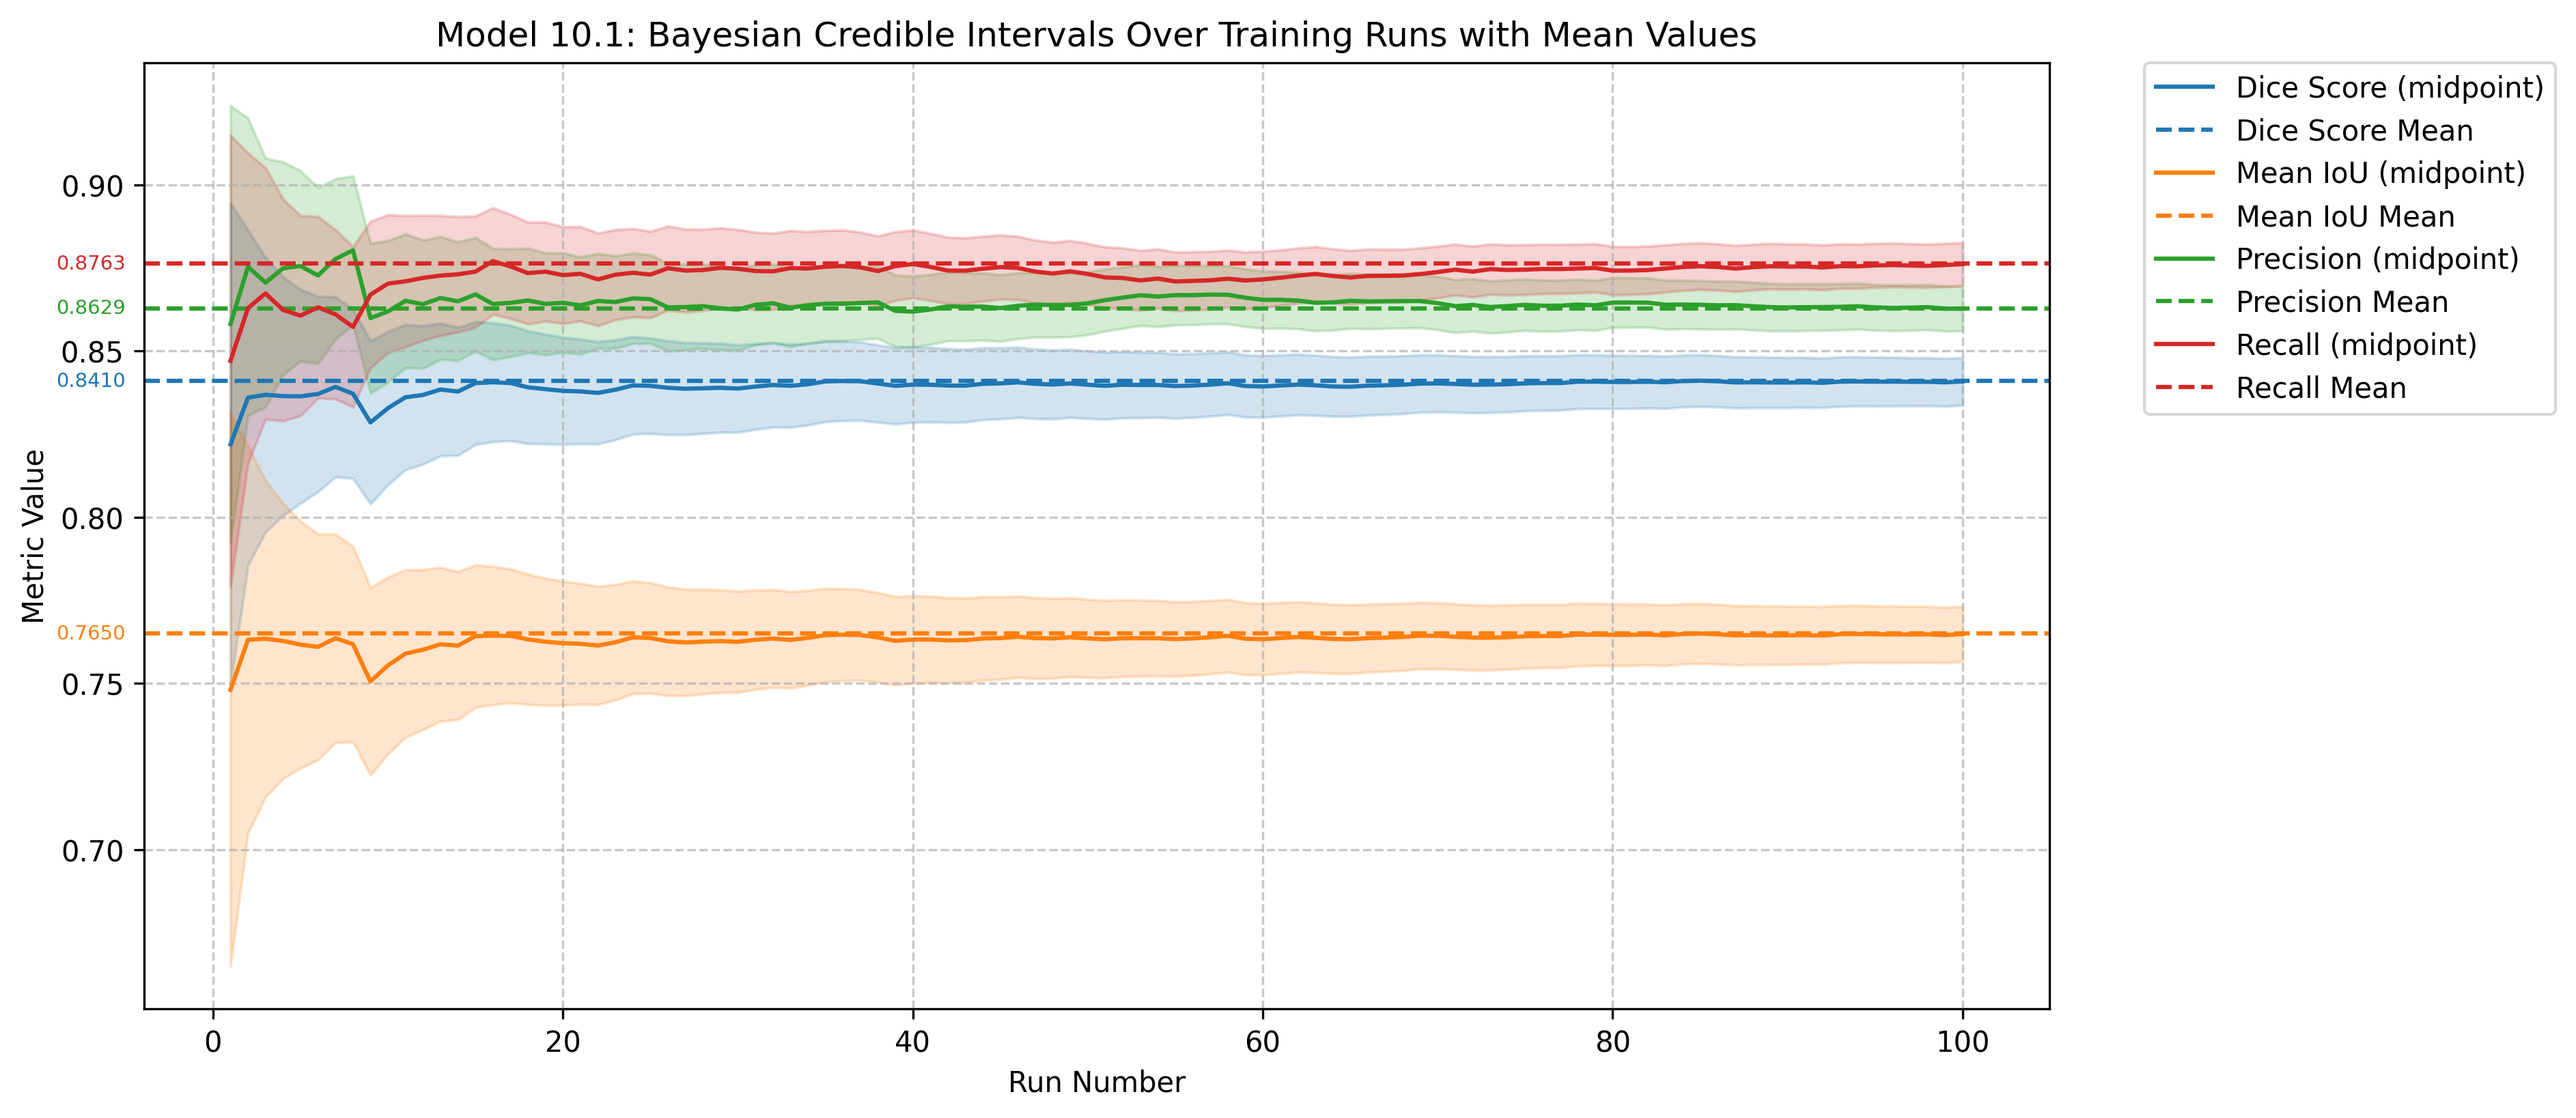
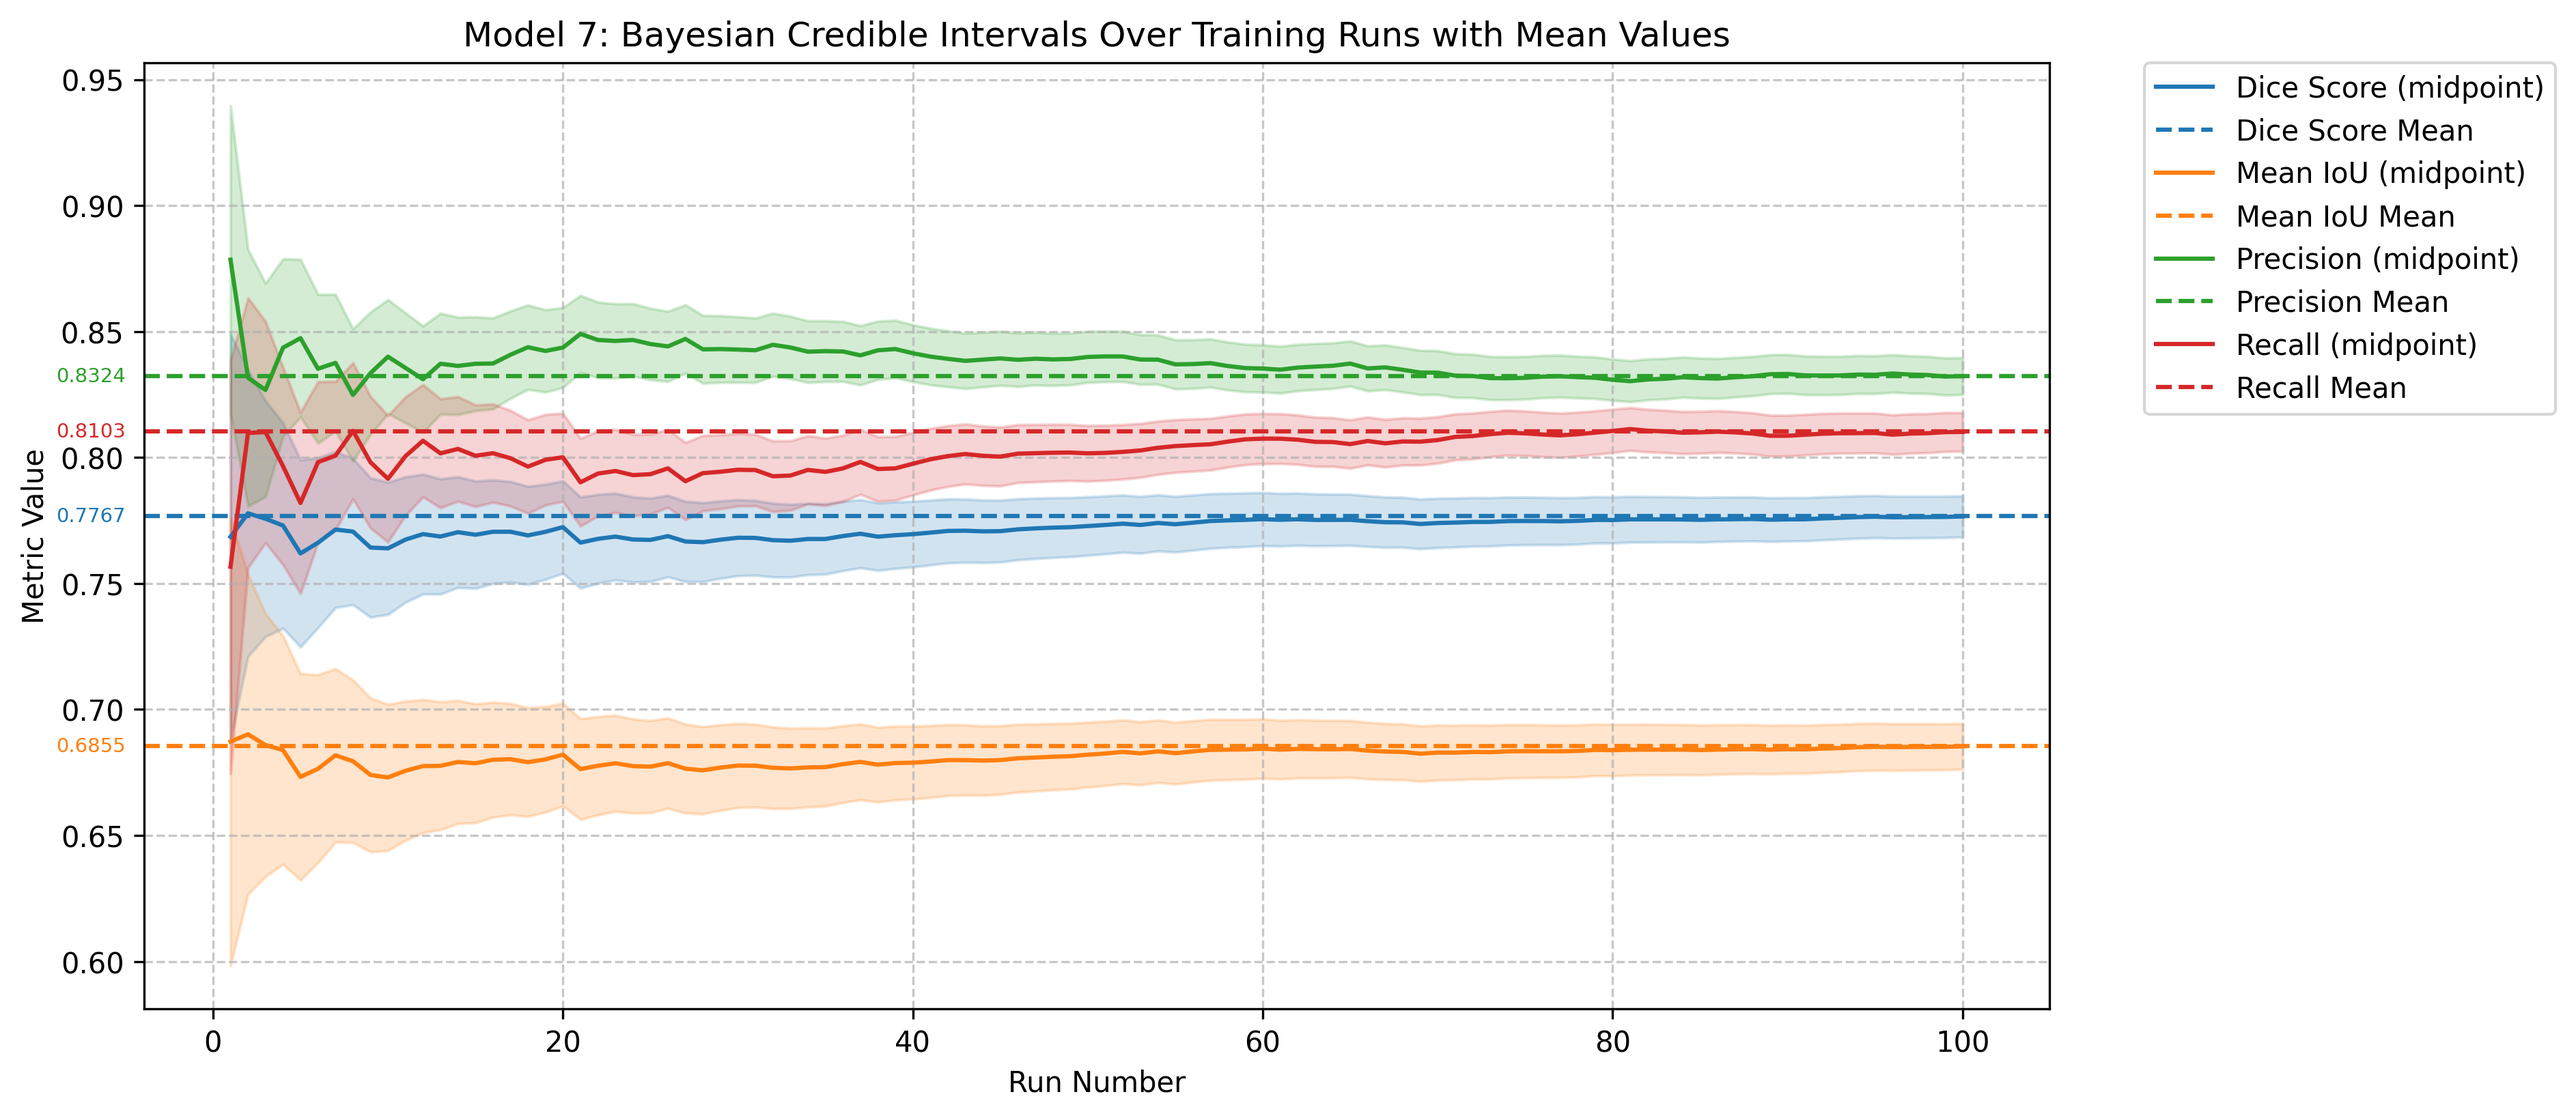
F7 results

diff --git a/analyse_results.py b/analyse_results.py
@@ -4,7 +4,7 @@ import matplotlib.pyplot as plt
 import seaborn as sns
 
 # File path
-file_path = "training_results_F10.1.txt"
+file_path = "training_results_F7.txt"
 
 # Updated regex pattern to extract the two dictionaries
 dict_pattern = re.compile(r"Run \d+: (\{.*?\}), Credible Intervals: (\{.*?\})")
@@ -66,7 +66,7 @@ def plot_boxplots(metrics, filename="boxplot.png"):
     sns.boxplot(data=[metrics[key] for key in metrics.keys()])
     plt.xticks(ticks=range(len(metrics.keys())), labels=list(metrics.keys()), rotation=20)
     plt.ylabel("Metric Values")
-    plt.title("Model 10.1: Boxplots of Metrics")
+    plt.title("Model 7: Boxplots of Metrics")
     plt.grid(axis="y", linestyle="--", alpha=0.7)
     # Save the figure
     plt.savefig(filename, bbox_inches="tight", dpi=300)
@@ -121,7 +121,7 @@ def plot_credible_intervals(runs, filename="credible_intervals.png"):
 
     plt.xlabel("Run Number")
     plt.ylabel("Metric Value")
-    plt.title("Model 10.1: Bayesian Credible Intervals Over Training Runs with Mean Values")
+    plt.title("Model 7: Bayesian Credible Intervals Over Training Runs with Mean Values")
     plt.legend(loc='upper left', bbox_to_anchor=(1.05, 1), borderaxespad=0.)
     plt.grid(True, linestyle="--", alpha=0.7)
     plt.savefig(filename, bbox_inches="tight", dpi=300)
